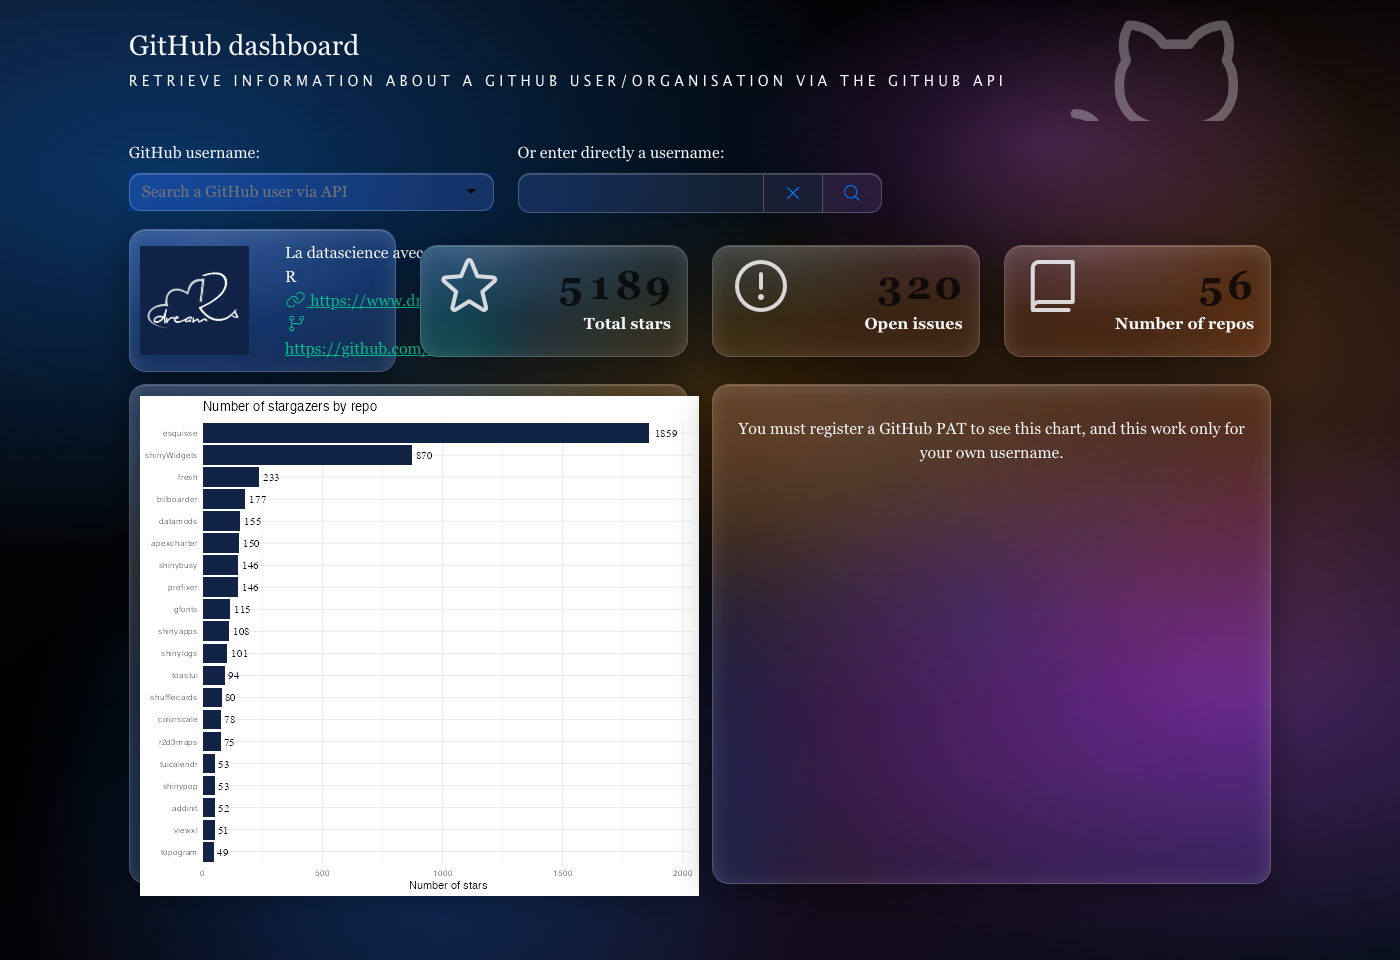
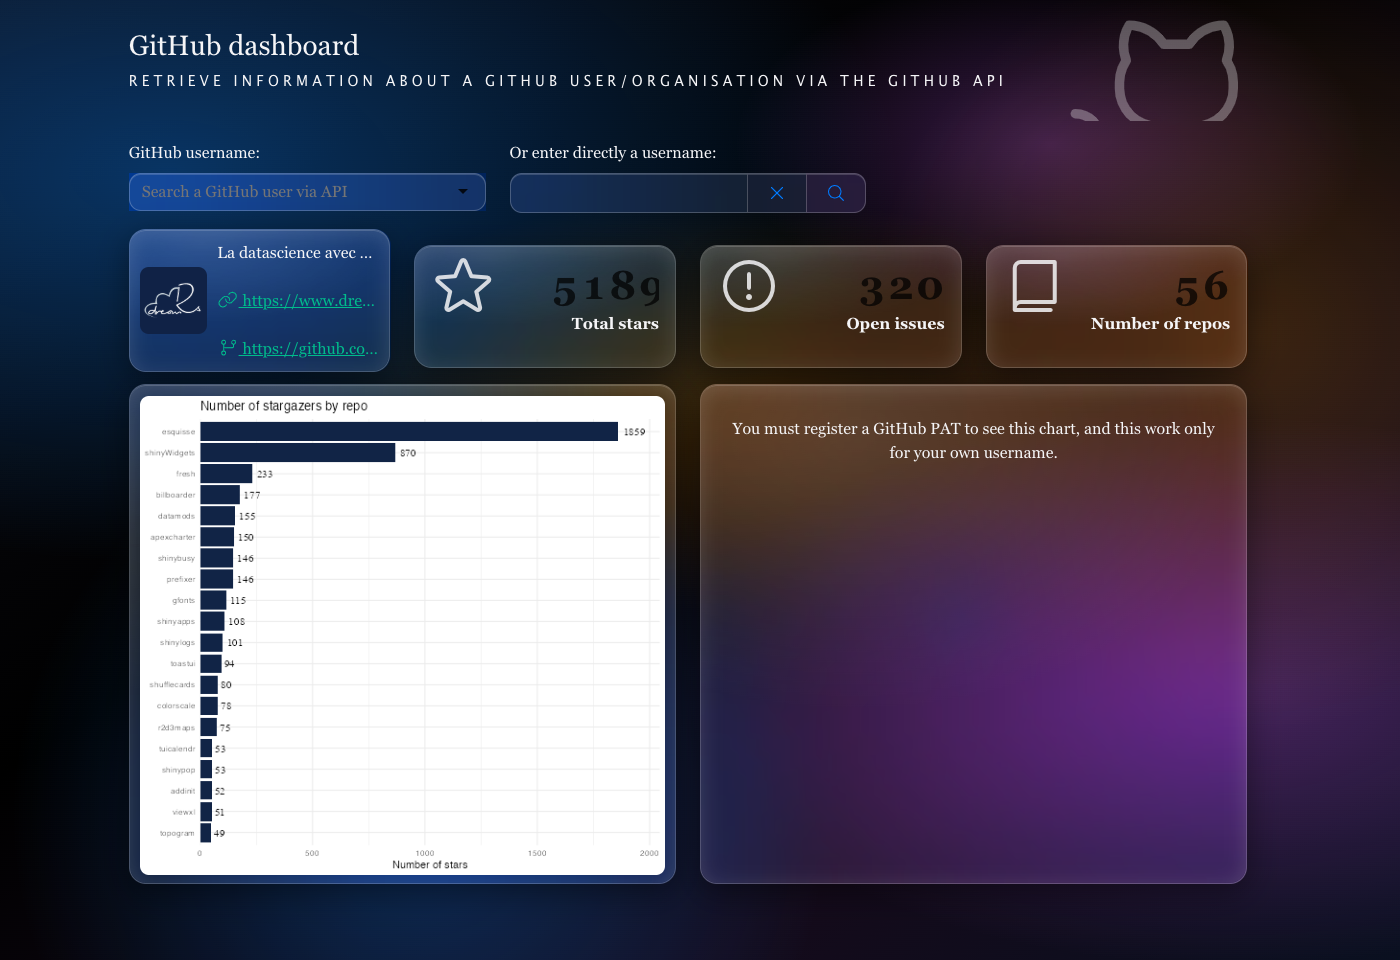
Fix glass frames overflowing adjacent columns
Clip shiny plot/html outputs to their glass surfaces and keep flex
column children within bounds so long unbreakable content (e.g. avatar
URLs next to statiCards) no longer spills into neighboring boxes.
Re-capture dreamRs gh-dashboard README screenshots.

diff --git a/inst/scss/glass.scss b/inst/scss/glass.scss
@@ -994,14 +994,25 @@ form.well,
   }
 }
 
-// Outputs: light glass frame; plot canvas stays neutral inside
+// Outputs: light glass frame; clip content so boxes never spill into siblings
 .shiny-plot-output,
 .shiny-html-output:not(:has(.Reactable)),
 .shiny-image-output {
   @include glass-surface(calc(var(--glass-radius) * 0.85));
   padding: 0.65rem;
   margin-bottom: 0.75rem;
-  overflow: visible;
+  overflow: hidden;
+  max-width: 100%;
+  box-sizing: border-box;
+}
+
+// ggplot/static plot images should follow the glass radius, not square-bleed
+.shiny-plot-output img,
+.shiny-image-output img {
+  display: block;
+  max-width: 100%;
+  height: auto;
+  border-radius: calc(var(--glass-radius) * 0.45);
 }
 
 // reactable ships its own surface — avoid double-framing the wrapper
@@ -1365,7 +1376,9 @@ body .Reactable {
   display: none !important;
 }
 
-// Keep statiCards and avatar cells inside their Bootstrap columns
+// Keep statiCards and avatar cells inside their Bootstrap columns.
+// Flex columns default min-width:auto, so long unbreakable content (URLs)
+// would otherwise expand the glass frame into the next card.
 .row > [class*="col-"] {
   min-width: 0;
 }
@@ -1377,6 +1390,12 @@ body .Reactable {
 .row:has(.stati) > [class*="col-"] {
   display: flex;
   flex-direction: column;
+  min-width: 0;
+
+  > * {
+    min-width: 0;
+    max-width: 100%;
+  }
 }
 
 .stati {
@@ -1384,22 +1403,57 @@ body .Reactable {
   max-width: 100%;
   box-sizing: border-box;
   overflow: hidden;
+  flex: 1 1 auto;
 }
 
 .stati .stati-content,
 .stati .stati-value {
   overflow: hidden;
   max-width: 100%;
+  text-overflow: ellipsis;
 }
 
+// dreamRs gh-dashboard avatar: fixed 109px img + table-cell + long URLs.
+// Override table layout and clip so the glass frame stays in its col-3.
 .shiny-html-output[id$="user_avatar"] {
   display: flex !important;
   align-items: center;
-  gap: 1rem;
+  gap: 0.65rem;
   width: 100%;
+  max-width: 100%;
   min-width: 0;
   min-height: 7em;
-  overflow: visible;
+  overflow: hidden;
+  box-sizing: border-box;
+
+  > img {
+    flex: 0 0 auto;
+    width: clamp(48px, 28%, 72px) !important;
+    height: auto !important;
+    max-width: 72px;
+    border-radius: 0.55rem;
+    object-fit: cover;
+  }
+
+  // server.R uses display:table-cell on the bio/links wrapper
+  > div {
+    display: block !important;
+    flex: 1 1 0;
+    min-width: 0;
+    overflow: hidden;
+    padding-left: 0 !important;
+    vertical-align: unset !important;
+  }
+
+  a,
+  span {
+    display: block;
+    max-width: 100%;
+    overflow: hidden;
+    text-overflow: ellipsis;
+    white-space: nowrap;
+    word-break: break-all;
+  }
 }
 
 body .shiny-output-error,

diff --git a/NEWS.md b/NEWS.md
@@ -1,5 +1,9 @@
 # shinyglass (development version)
 
+* Fix overlapping glass frames in multi-column layouts (e.g. dreamRs
+  gh-dashboard avatar + statiCards): clip plot/html outputs to their
+  surfaces, constrain flex columns, and ellipsize long avatar text.
+
 # shinyglass 0.1.0
 
 * Initial release.